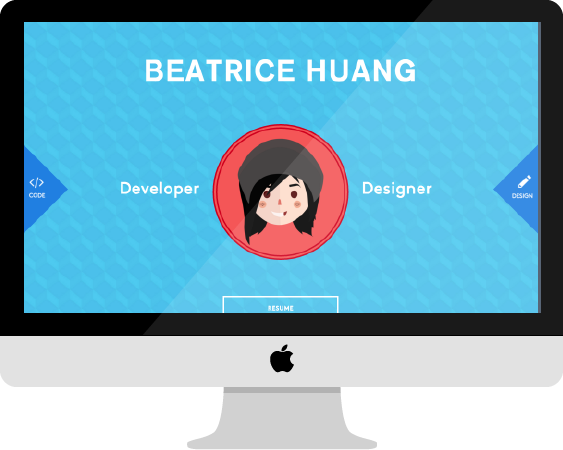
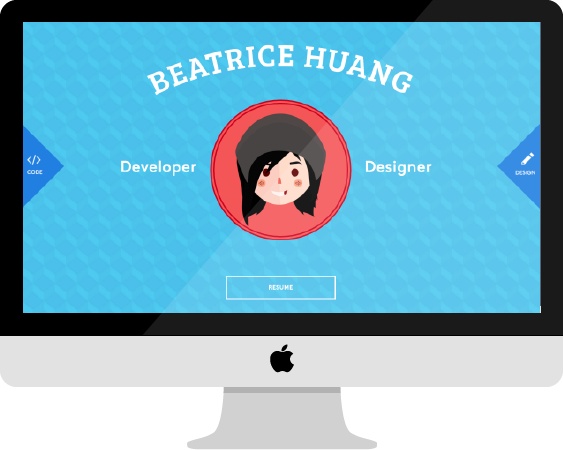
tweak images and about button height

diff --git a/dist/styles/styles.css b/dist/styles/styles.css
@@ -307,7 +307,7 @@ nav li {
   list-style: none;
   padding: 5px;
   position: absolute;
-  top: 33%;
+  top: 300px;
   text-align: center;
   color: white;
   cursor: pointer;
@@ -569,9 +569,8 @@ header {
         max-width: 294px; }
         @media (max-height: 760px) {
           header .logoContainer .logo.about-visible {
-            -webkit-transform: translateY(20vh);
-                -ms-transform: translateY(20vh);
-                    transform: translateY(20vh); } }
+            height: 200px;
+            width: 200px; } }
         @media (max-height: 400px) {
           header .logoContainer .logo.about-visible {
             -webkit-transform: translateY(3vh);

diff --git a/src/styles/styles.scss b/src/styles/styles.scss
@@ -230,7 +230,7 @@ nav {
 		list-style: none;
 		padding: 5px;
 		position: absolute;
-		top: 33%;
+		top: 300px;
 		text-align: center;
 		color: white;
 		cursor: pointer;
@@ -529,7 +529,8 @@ header {
 				max-width: 294px;
 
 				@include break-max-height($mobile) {
-					transform: translateY(20vh);
+					height: 200px;
+					width: 200px;
 				}
 				@include break-max-height($mobile-landscape) {
 					transform: translateY(3vh);
